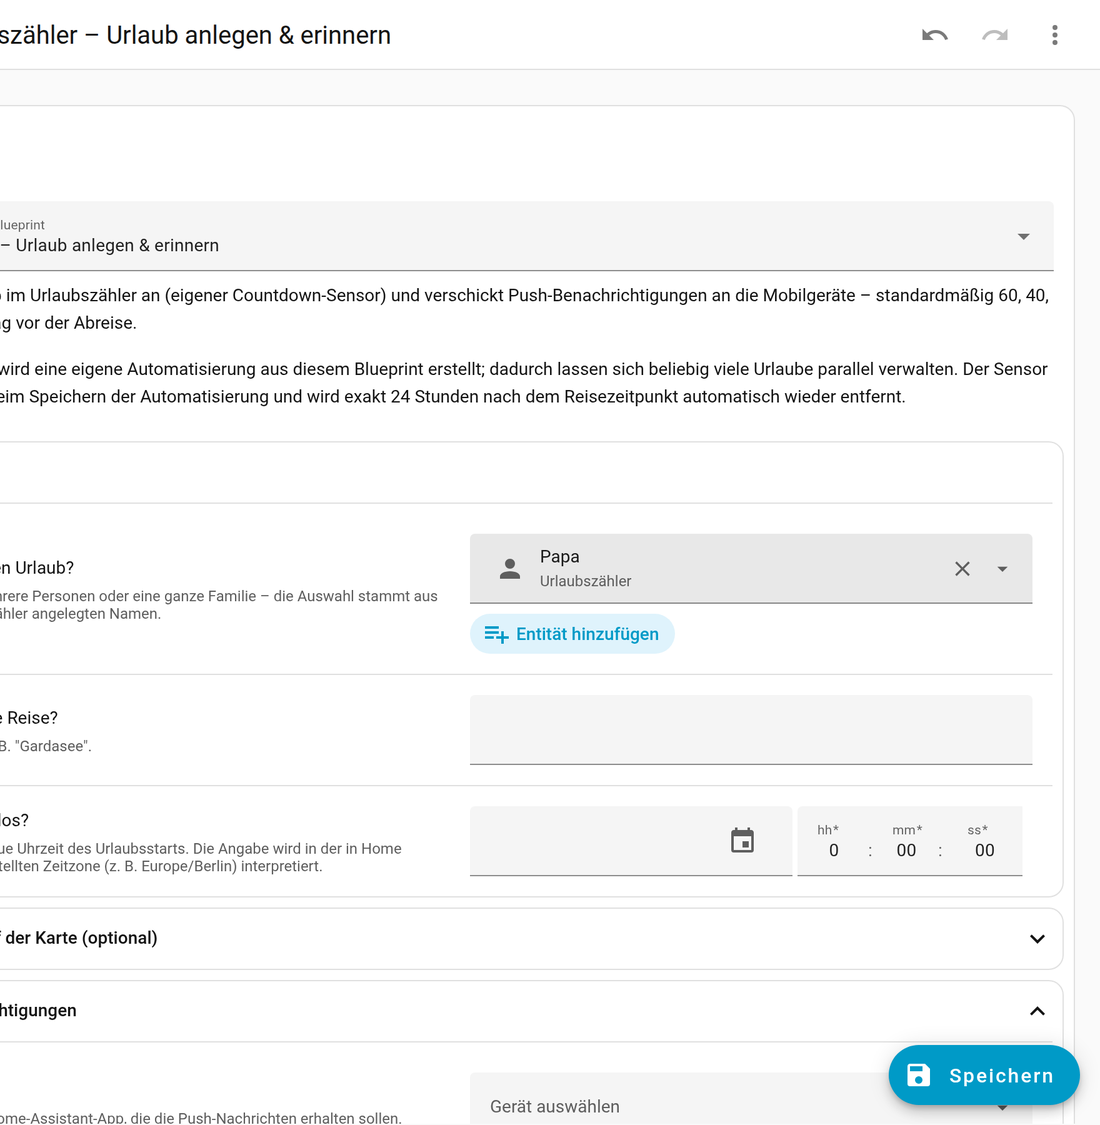
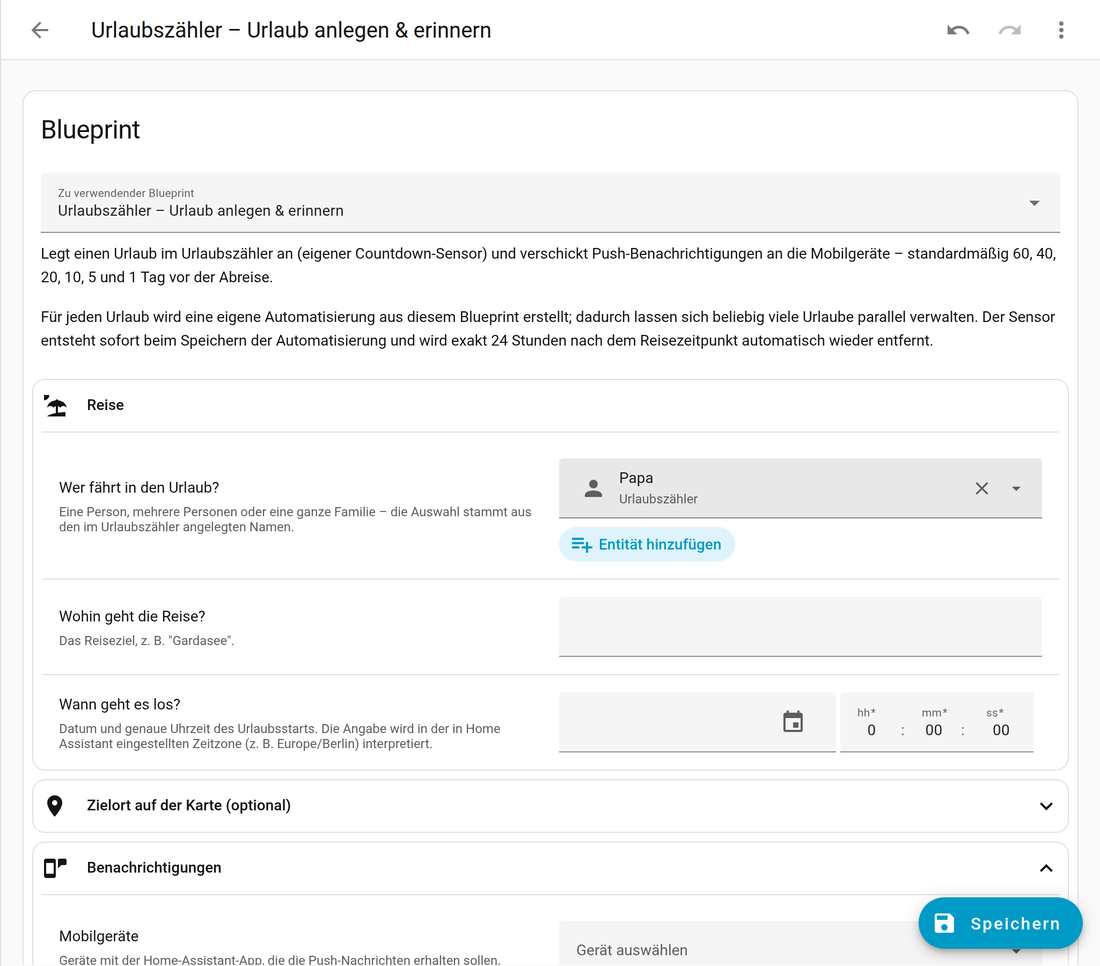
Anleitung datenschutzkonform: Beispieldaten und Badges
Die Screenshots zeigten personenbezogene Daten aus der Testinstanz - einen
echten Familiennamen, Vornamen und einen Standortmarker. In einem
öffentlichen Repository ist das vermeidbar.

- Alle Bilder neu aufgenommen mit erfundenen Beispieldaten: Papa, Mama,
  Kind, Familie Muster. Der Heimatmarker liegt auf dem geografischen
  Mittelpunkt Deutschlands und damit auf keiner Wohnanschrift.
- Dieselben Beispielnamen auch in Anleitung, Beispielkarten, Service-
  Beispielen und Tests.
- Die beiden Badges lagen auf my.home-assistant.io. Auf GitHub entschärft
  der Camo-Proxy das, aber HACS rendert die Anleitung direkt im Browser
  jedes Nutzers - dort wäre die IP an einen fremden Server gegangen. Die
  Badges liegen jetzt als SVG im Repository.
- Neues Kapitel "Datenschutz": was das Haus verlässt (eine Nominatim-
  Anfrage je Reiseziel, ohne Namen oder Reisedaten), wie sich auch die
  vermeiden lässt (Zielort von Hand setzen), und was nicht übertragen
  wird - keine Kartenkacheln, keine Telemetrie, keine externen Skripte.

Claude-Session: https://claude.ai/code/session_015owoWHFpqpH93v2jKLqAzB

diff --git a/tests/test_urlaube.py b/tests/test_urlaube.py
@@ -13,8 +13,8 @@ from pytest_homeassistant_custom_component.common import async_fire_time_changed
 from custom_components.urlaubszaehler.const import DOMAIN
 
 PAPA = "binary_sensor.urlaubszahler_papa"
-FIENE = "binary_sensor.urlaubszahler_fiene"
-FAMILIE = "binary_sensor.urlaubszahler_familie_frece"
+FIENE = "binary_sensor.urlaubszahler_mama"
+FAMILIE = "binary_sensor.urlaubszahler_familie_muster"
 
 
 async def anlegen(hass, teilnehmer, ziel, tage=12, **extra):
@@ -48,7 +48,7 @@ async def test_teilnehmer_entitaeten(hass, eingerichtet):
     assert hass.states.get(PAPA).attributes["anzeigename"] == "Papa"
     assert hass.states.get(PAPA).attributes["art"] == "person"
     assert hass.states.get(FAMILIE).attributes["art"] == "familie"
-    assert hass.states.get(FAMILIE).attributes["mitglieder"] == ["Papa", "Fiene"]
+    assert hass.states.get(FAMILIE).attributes["mitglieder"] == ["Papa", "Mama"]
 
 
 async def test_alle_services_vorhanden(hass, eingerichtet):
@@ -76,13 +76,13 @@ async def test_urlaub_ueber_entitaeten(hass, eingerichtet):
     """Der Blueprint übergibt Entity-IDs; daraus werden die Namen aufgelöst."""
     antwort = await anlegen(hass, [PAPA, FIENE], "Gardasee")
 
-    assert antwort["wer"] == "Papa und Fiene"
+    assert antwort["wer"] == "Papa und Mama"
     assert antwort["breitengrad"] == 45.65
     assert antwort["koordinaten_quelle"] == "geocoding"
-    assert "Der Urlaub von Papa und Fiene ist in" in antwort["nachricht"]
+    assert "Der Urlaub von Papa und Mama ist in" in antwort["nachricht"]
     assert "Die Reise geht nach Gardasee." in antwort["nachricht"]
 
-    zustand = hass.states.get("sensor.urlaubszahler_urlaub_papa_und_fiene_gardasee")
+    zustand = hass.states.get("sensor.urlaubszahler_urlaub_papa_und_mama_gardasee")
     assert zustand is not None
     assert hass.states.get(PAPA).state == "on"
     assert hass.states.get(FIENE).state == "on"
@@ -99,12 +99,12 @@ async def test_familie_zieht_mitglieder_mit(hass, eingerichtet):
     """Fährt die Familie, gelten auch ihre Mitglieder als verreist."""
     await anlegen(hass, [FAMILIE], "Lappland")
 
-    zustand = hass.states.get("sensor.urlaubszahler_urlaub_familie_frece_lappland")
-    assert zustand.attributes["namen"] == ["Familie Frece"]
-    assert zustand.attributes["mitglieder"] == ["Papa", "Fiene"]
+    zustand = hass.states.get("sensor.urlaubszahler_urlaub_familie_muster_lappland")
+    assert zustand.attributes["namen"] == ["Familie Muster"]
+    assert zustand.attributes["mitglieder"] == ["Papa", "Mama"]
     assert zustand.attributes["arten"] == ["familie"]
 
-    # Papa und Fiene sind über die Familie beteiligt.
+    # Papa und Mama sind über die Familie beteiligt.
     assert hass.states.get(PAPA).state == "on"
     assert hass.states.get(FIENE).state == "on"
     assert hass.states.get(PAPA).attributes["anzahl_urlaube"] == 1
@@ -310,7 +310,7 @@ async def test_urlaube_ueberleben_neustart(hass, eingerichtet):
 
     assert hass.states.get("sensor.urlaubszahler_urlaub_papa_gardasee") is not None
     assert (
-        hass.states.get("sensor.urlaubszahler_urlaub_familie_frece_lappland")
+        hass.states.get("sensor.urlaubszahler_urlaub_familie_muster_lappland")
         is not None
     )
 

diff --git a/tests/test_config_flow.py b/tests/test_config_flow.py
@@ -34,21 +34,21 @@ async def test_kompletter_ablauf(hass):
 
     ergebnis = await hass.config_entries.flow.async_configure(
         ergebnis["flow_id"],
-        {"Person 1": "Papa", "Person 2": "Fiene", "Person 3": "Mama"},
+        {"Person 1": "Papa", "Person 2": "Mama", "Person 3": "Kind"},
     )
     assert ergebnis["step_id"] == "familien"
 
     ergebnis = await hass.config_entries.flow.async_configure(
         ergebnis["flow_id"],
         {
-            "Familie 1": "Familie Frece",
-            "Mitglieder von Familie 1": ["Papa", "Fiene"],
+            "Familie 1": "Familie Muster",
+            "Mitglieder von Familie 1": ["Papa", "Mama"],
         },
     )
     assert ergebnis["type"] is FlowResultType.CREATE_ENTRY
-    assert ergebnis["data"][CONF_PERSONEN] == ["Papa", "Fiene", "Mama"]
+    assert ergebnis["data"][CONF_PERSONEN] == ["Papa", "Mama", "Kind"]
     assert ergebnis["data"][CONF_FAMILIEN] == [
-        {CONF_NAME: "Familie Frece", CONF_MITGLIEDER: ["Papa", "Fiene"]}
+        {CONF_NAME: "Familie Muster", CONF_MITGLIEDER: ["Papa", "Mama"]}
     ]
 
 
@@ -124,9 +124,9 @@ async def test_optionen_namen_aendern(hass, eingerichtet):
     await hass.async_block_till_done()
 
     assert hass.states.get("binary_sensor.urlaubszahler_oma") is not None
-    # Fiene und die Familie sind restlos verschwunden.
-    assert hass.states.get("binary_sensor.urlaubszahler_fiene") is None
-    assert hass.states.get("binary_sensor.urlaubszahler_familie_frece") is None
+    # Mama und die Familie sind restlos verschwunden.
+    assert hass.states.get("binary_sensor.urlaubszahler_mama") is None
+    assert hass.states.get("binary_sensor.urlaubszahler_familie_muster") is None
 
 
 async def test_optionen_ohne_urlaube(hass, eingerichtet):

diff --git a/tests/test_blueprint.py b/tests/test_blueprint.py
@@ -37,7 +37,7 @@ QUELLE = (
 )
 
 PAPA = "binary_sensor.urlaubszahler_papa"
-FIENE = "binary_sensor.urlaubszahler_fiene"
+FIENE = "binary_sensor.urlaubszahler_mama"
 
 
 @pytest.fixture
@@ -128,9 +128,9 @@ async def test_urlaub_wird_beim_speichern_angelegt(
     hass.bus.async_fire("automation_reloaded")
     await hass.async_block_till_done()
 
-    zustand = hass.states.get("sensor.urlaubszahler_urlaub_papa_und_fiene_gardasee")
+    zustand = hass.states.get("sensor.urlaubszahler_urlaub_papa_und_mama_gardasee")
     assert zustand is not None
-    assert zustand.attributes["wer"] == "Papa und Fiene"
+    assert zustand.attributes["wer"] == "Papa und Mama"
     assert zustand.attributes["ziel"] == "Gardasee"
     assert zustand.attributes["breitengrad"] == 45.65
     # 60 Kalendertage; je nach Tageszeit sind das 59 oder 60 volle Tage.
@@ -267,10 +267,10 @@ async def test_push_an_mehrere_geraete(
             identifiers={("mobile_app", name)},
             name=name,
         ).id
-        for name in ("Handy Papa", "Handy Fiene")
+        for name in ("Handy Papa", "Handy Mama")
     ]
     rufe_a = async_mock_service(hass, "notify", "mobile_app_handy_papa")
-    rufe_b = async_mock_service(hass, "notify", "mobile_app_handy_fiene")
+    rufe_b = async_mock_service(hass, "notify", "mobile_app_handy_mama")
 
     jetzt = dt_util.now().replace(hour=8, minute=59, second=0, microsecond=0)
     freezer.move_to(jetzt)

diff --git a/tests/conftest.py b/tests/conftest.py
@@ -83,9 +83,9 @@ def eintrag() -> MockConfigEntry:
         data={
             CONF_PERSON_COUNT: 2,
             CONF_FAMILY_COUNT: 1,
-            CONF_PERSONEN: ["Papa", "Fiene"],
+            CONF_PERSONEN: ["Papa", "Mama"],
             CONF_FAMILIEN: [
-                {CONF_NAME: "Familie Frece", CONF_MITGLIEDER: ["Papa", "Fiene"]}
+                {CONF_NAME: "Familie Muster", CONF_MITGLIEDER: ["Papa", "Mama"]}
             ],
         },
     )

diff --git a/custom_components/urlaubszaehler/models.py b/custom_components/urlaubszaehler/models.py
@@ -12,7 +12,7 @@ from .const import AUTO_DELETE_AFTER
 
 
 def format_namen(namen: list[str]) -> str:
-    """Baue eine natürlichsprachige Aufzählung: 'Papa, Fiene und Mama'."""
+    """Baue eine natürlichsprachige Aufzählung: 'Papa, Mama und Kind'."""
     namen = [n for n in namen if n]
     if not namen:
         return "unbekannt"

diff --git a/README.md b/README.md
@@ -9,8 +9,9 @@ Anlegen neuer Urlaube und für Push-Benachrichtigungen zu festen Vorlaufzeiten.
   <img src="docs/bilder/07-karte-dunkel.png" width="49%" alt="Urlaubszähler-Karte im dunklen Design">
 </p>
 
-*Alle Bilder in dieser Anleitung sind echte Aufnahmen aus einer laufenden
-Home-Assistant-Instanz (2026.2) mit dieser Integration.*
+*Alle Bilder sind echte Aufnahmen aus einer laufenden Home-Assistant-Instanz
+(2026.2) mit dieser Integration. Sie zeigen ausschließlich erfundene
+Beispieldaten – siehe [Datenschutz](#8-datenschutz).*
 
 * Einrichtung komplett über die UI (Config Flow) – **keine Helfer von Hand anlegen**.
   `input_datetime`, `input_text` & Co. sind nicht nötig; die Integration verwaltet
@@ -27,7 +28,7 @@ Mindestversion: **Home Assistant 2024.11**
 
 ## 1. Installation über HACS (empfohlen)
 
-[![Repository zu HACS hinzufügen](https://my.home-assistant.io/badges/hacs_repository.svg)](https://my.home-assistant.io/redirect/hacs_repository/?owner=frecem&repository=Urlaubszaehler&category=integration)
+[![Repository zu HACS hinzufügen](docs/badges/hacs.svg)](https://my.home-assistant.io/redirect/hacs_repository/?owner=frecem&repository=Urlaubszaehler&category=integration)
 
 Ein Klick auf den Knopf öffnet HACS direkt bei diesem Repository. Falls der
 Knopf nicht funktioniert (etwa weil „My Home Assistant" nicht eingerichtet ist),
@@ -67,13 +68,13 @@ auch hier nicht nötig – Karte und Blueprint kommen mit.
 
 ## 2. Einrichten
 
-[![Integration hinzufügen](https://my.home-assistant.io/badges/config_flow_start.svg)](https://my.home-assistant.io/redirect/config_flow_start/?domain=urlaubszaehler)
+[![Integration hinzufügen](docs/badges/integration.svg)](https://my.home-assistant.io/redirect/config_flow_start/?domain=urlaubszaehler)
 
 Oder von Hand: **Einstellungen → Geräte & Dienste → Integration hinzufügen** →
 nach `Urlaubszähler` suchen.
 
 1. **Schritt 1:** Anzahl der Personen und Anzahl der Familien eintragen.
-2. **Schritt 2:** Namen der Personen eintragen (z. B. `Papa`, `Fiene`).
+2. **Schritt 2:** Namen der Personen eintragen (z. B. `Papa`, `Mama`).
 3. **Schritt 3:** Familiennamen eintragen und optional festlegen, welche
    Personen zu einer Familie gehören.
 
@@ -119,7 +120,7 @@ Blueprint an.
 
 ## 4. Der Sensor
 
-Pro Urlaub entsteht eine Entität wie `sensor.urlaubszahler_urlaub_papa_und_fiene_gardasee`.
+Pro Urlaub entsteht eine Entität wie `sensor.urlaubszahler_urlaub_papa_und_mama_gardasee`.
 
 **Status:** der Reisebeginn als **Unix-Zeit (Dezimal, Sekunden)**. Die Uhrzeit
 wird in der in Home Assistant eingestellten Zeitzone (z. B. `Europe/Berlin`)
@@ -131,8 +132,8 @@ in jeder Lovelace-Karte.
 
 | Attribut | Beispiel |
 |---|---|
-| `nachricht` | `Der Urlaub von Papa und Fiene ist in 12 Tagen, 5 Stunden und 42 Minuten. Die Reise geht nach Gardasee.` |
-| `wer` / `namen` | `Papa und Fiene` / `["Papa", "Fiene"]` |
+| `nachricht` | `Der Urlaub von Papa und Mama ist in 12 Tagen, 5 Stunden und 42 Minuten. Die Reise geht nach Gardasee.` |
+| `wer` / `namen` | `Papa und Mama` / `["Papa", "Mama"]` |
 | `ziel` | `Gardasee` |
 | `start` / `start_zeitstempel` | `2026-08-14T07:30:00+02:00` / `1786764600.0` |
 | `tage`, `stunden`, `minuten` | `12`, `5`, `42` (stoppen bei `0`) |
@@ -226,7 +227,7 @@ action: urlaubszaehler.add_vacation
 data:
   teilnehmer:
     - binary_sensor.urlaubszahler_papa
-    - binary_sensor.urlaubszahler_fiene
+    - binary_sensor.urlaubszahler_mama
   ziel: Gardasee
   start: "2026-08-14 07:30:00"
   urlaub_id: sommerurlaub_2026
@@ -253,7 +254,51 @@ jede der sechs Vorlaufzeiten geprüft.
 
 ---
 
-## 8. Gut zu wissen
+## 8. Datenschutz
+
+Kurz gesagt: Die Integration verlässt dein Netzwerk nur an einer einzigen
+Stelle, und die kannst du abschalten.
+
+**Was das Haus verlässt**
+
+| Wann | Wohin | Was |
+|---|---|---|
+| Beim Anlegen eines Urlaubs, einmal je Reiseziel | `nominatim.openstreetmap.org` | Der eingetippte Ortsname (z. B. „Gardasee"), die eingestellte Sprache und ein Kennzeichen der Integration als User-Agent |
+
+Das Ergebnis wird dauerhaft gespeichert; derselbe Ort wird kein zweites Mal
+abgefragt. Es werden **keine** Namen, Reisedaten, Koordinaten deines Zuhauses
+oder Gerätekennungen übertragen. Nominatim ist ein Dienst der OpenStreetMap
+Foundation (Sitz in Großbritannien);
+[Datenschutzhinweise](https://wiki.osmfoundation.org/wiki/Privacy_Policy).
+
+**So vermeidest du auch diese eine Anfrage:** Im Blueprint *„Zielort selbst auf
+der Karte setzen"* einschalten und den Punkt von Hand setzen. Dann findet gar
+keine Ortssuche statt und die Integration arbeitet vollständig offline.
+
+**Was das Haus nicht verlässt**
+
+* Die Weltkarte steckt als Vektorgrafik in der Karte selbst – es werden
+  **keine Kartenkacheln** von fremden Servern geladen. Kein Google Maps,
+  kein Mapbox, keine Zählpixel.
+* Keine Telemetrie, keine Nutzungsstatistik, keine externen Schriftarten
+  oder Skripte.
+* Alle Urlaubsdaten liegen ausschließlich in
+  `.storage/urlaubszaehler.<entry_id>` auf deinem eigenen Server.
+* Push-Nachrichten laufen über die Home-Assistant-App und nehmen den Weg, den
+  du dort ohnehin nutzt.
+
+**Zu den Bildern in dieser Anleitung**
+
+Alle Screenshots wurden mit erfundenen Beispieldaten erzeugt: „Papa", „Mama",
+„Kind", „Familie Muster". Der Heimatmarker auf der Karte liegt auf dem
+geografischen Mittelpunkt Deutschlands (51,1657° N / 10,4515° O) und damit auf
+keiner Wohnanschrift. Die Badges oben liegen als SVG im Repository, damit beim
+Betrachten der Anleitung – auch innerhalb von HACS – keine Anfrage an einen
+fremden Server entsteht.
+
+---
+
+## 9. Gut zu wissen
 
 * **Auto-Delete:** Ein Hintergrundtask prüft minütlich; der Sensor verschwindet
   in der Minute, in der `Reisezeitpunkt + 24 h` überschritten wird.
